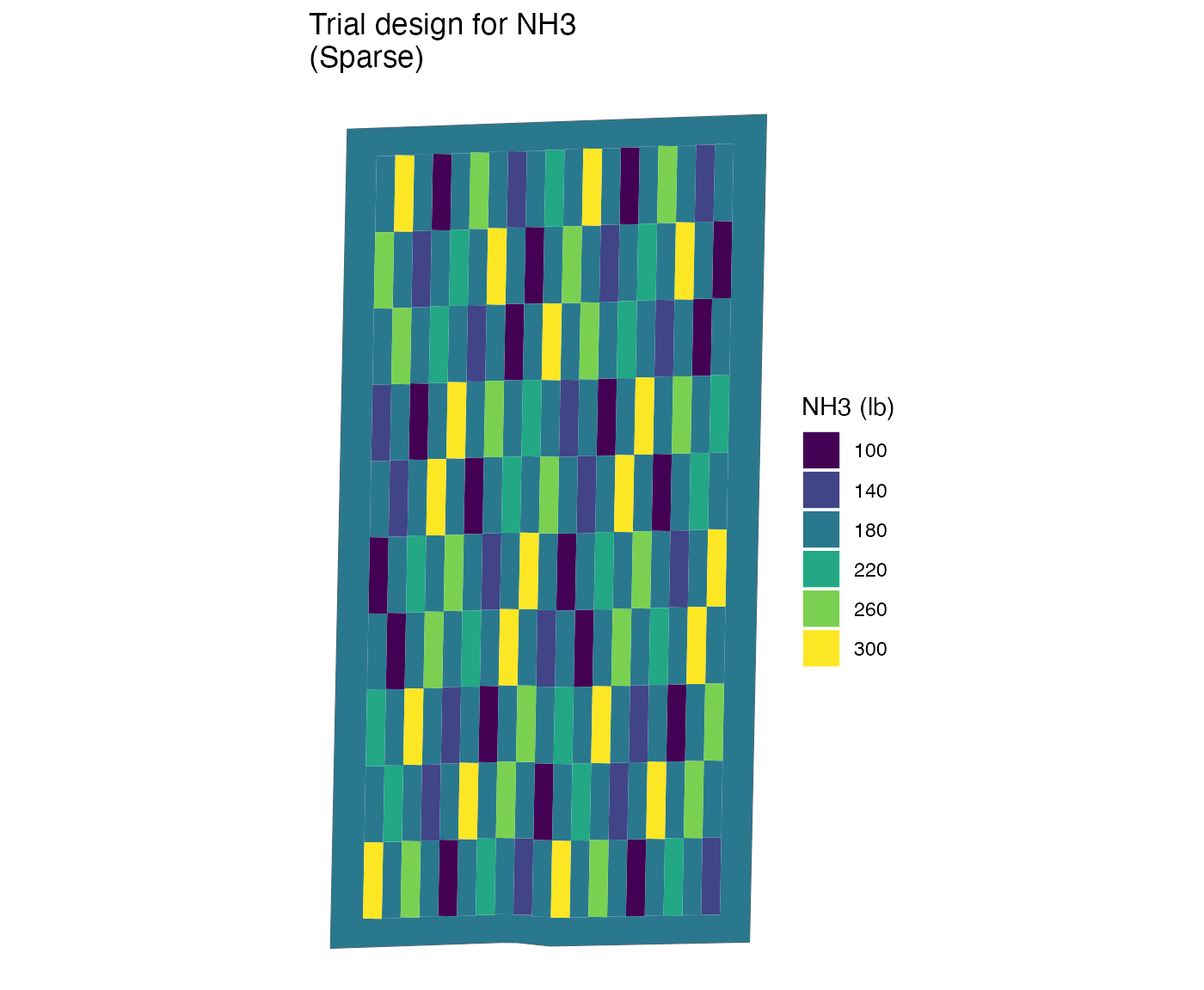
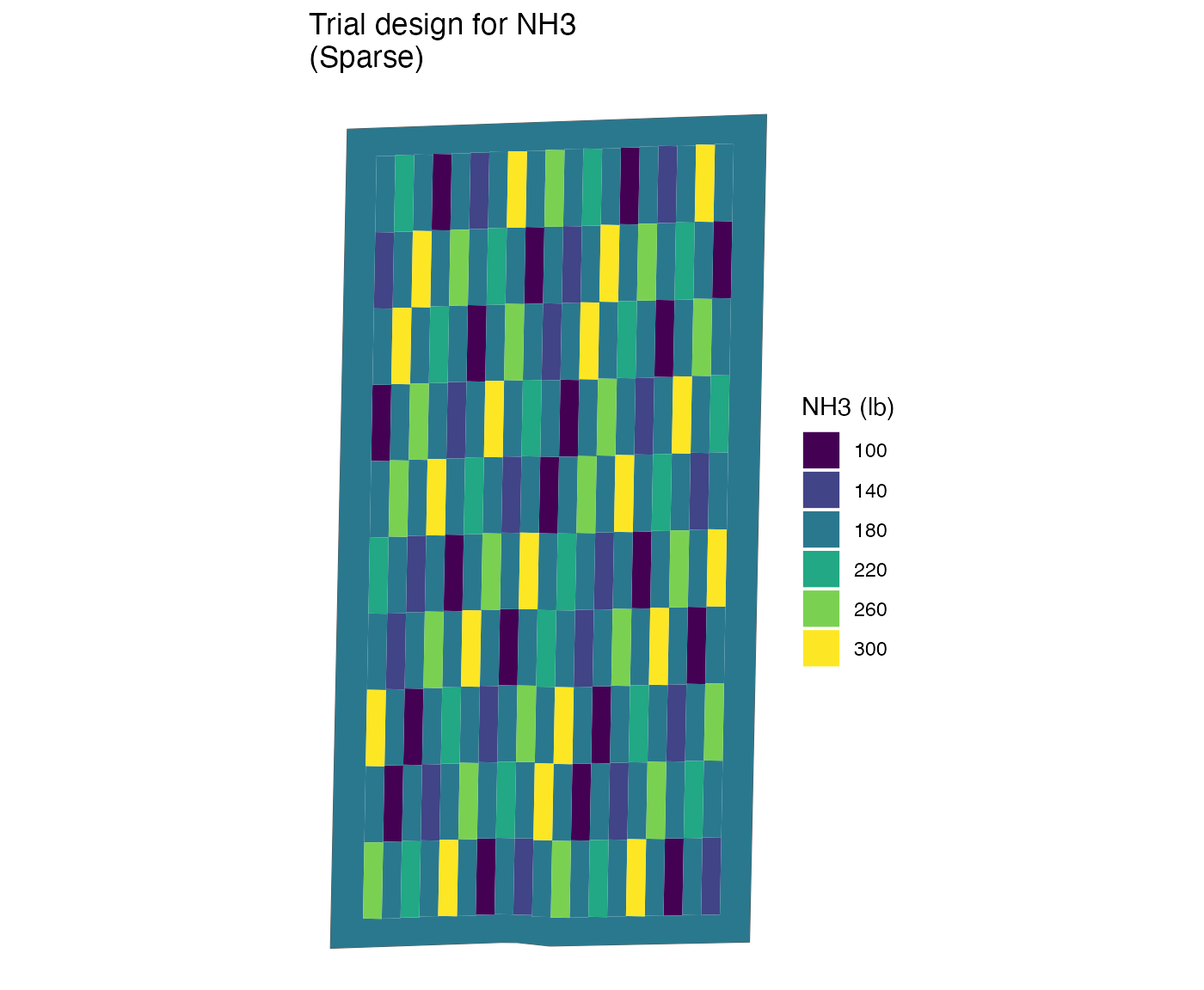
vignette title problem fixed

Changed region(s): [[0.2764, 0.125, 0.6143, 0.9375]]

diff --git a/docs/index.html b/docs/index.html
@@ -97,7 +97,7 @@
 <div class="page-header"><h1 id="ofpetrial-design-on-farm-precision-experiments">ofpetrial: Design On-farm Precision Experiments<a class="anchor" aria-label="anchor" href="#ofpetrial-design-on-farm-precision-experiments"></a>
 </h1></div>
 <!-- badges: start -->
-<!-- badges: end -->
+
 <p>The <code>ofpetrial</code> package allows the user to design agronomic input experiments in a reproducible manner without using ArcGIS or QGIS.</p>
 <div class="section level2">
 <h2 id="installation">Installation<a class="anchor" aria-label="anchor" href="#installation"></a>
@@ -128,13 +128,11 @@
 <span></span>
 <span><span class="va">seed_plot_info</span></span>
 <span><span class="co">#&gt; # A tibble: 1 × 10</span></span>
-<span><span class="co">#&gt;   input…¹ machi…² secti…³ secti…⁴ harve…⁵ plot_…⁶ headl…⁷ side_…⁸ min_p…⁹</span></span>
-<span><span class="co">#&gt;   &lt;chr&gt;     &lt;dbl&gt;   &lt;dbl&gt;   &lt;dbl&gt;   &lt;dbl&gt;   &lt;dbl&gt;   &lt;dbl&gt;   &lt;dbl&gt;   &lt;dbl&gt;</span></span>
-<span><span class="co">#&gt; 1 seed       18.3      24   0.762    9.14    9.14    36.6    9.14    73.2</span></span>
-<span><span class="co">#&gt; # … with 1 more variable: max_plot_length &lt;dbl&gt;, and abbreviated</span></span>
-<span><span class="co">#&gt; #   variable names ¹input_name, ²machine_width, ³section_num,</span></span>
-<span><span class="co">#&gt; #   ⁴section_width, ⁵harvester_width, ⁶plot_width, ⁷headland_length,</span></span>
-<span><span class="co">#&gt; #   ⁸side_length, ⁹min_plot_length</span></span>
+<span><span class="co">#&gt;   input_name machine_width section_num sectio…¹ harve…² plot_…³ headl…⁴ side_…⁵ min_p…⁶ max_p…⁷</span></span>
+<span><span class="co">#&gt;   &lt;chr&gt;              &lt;dbl&gt;       &lt;dbl&gt;    &lt;dbl&gt;   &lt;dbl&gt;   &lt;dbl&gt;   &lt;dbl&gt;   &lt;dbl&gt;   &lt;dbl&gt;   &lt;dbl&gt;</span></span>
+<span><span class="co">#&gt; 1 seed                18.3          24    0.762    9.14    9.14    36.6    9.14    73.2    91.4</span></span>
+<span><span class="co">#&gt; # … with abbreviated variable names ¹section_width, ²harvester_width, ³plot_width,</span></span>
+<span><span class="co">#&gt; #   ⁴headland_length, ⁵side_length, ⁶min_plot_length, ⁷max_plot_length</span></span>
 <span></span>
 <span><span class="va">n_plot_info</span> <span class="op">&lt;-</span></span>
 <span>  <span class="fu"><a href="reference/prep_plot_f.html">prep_plot_f</a></span><span class="op">(</span></span>
@@ -148,13 +146,11 @@
 <span></span>
 <span><span class="va">n_plot_info</span></span>
 <span><span class="co">#&gt; # A tibble: 1 × 10</span></span>
-<span><span class="co">#&gt;   input…¹ machi…² secti…³ secti…⁴ harve…⁵ plot_…⁶ headl…⁷ side_…⁸ min_p…⁹</span></span>
-<span><span class="co">#&gt;   &lt;chr&gt;     &lt;dbl&gt;   &lt;dbl&gt;   &lt;dbl&gt;   &lt;dbl&gt;   &lt;dbl&gt;   &lt;dbl&gt;   &lt;dbl&gt;   &lt;dbl&gt;</span></span>
-<span><span class="co">#&gt; 1 NH3        9.14       1    9.14    9.14    9.14    18.3    9.14    73.2</span></span>
-<span><span class="co">#&gt; # … with 1 more variable: max_plot_length &lt;dbl&gt;, and abbreviated</span></span>
-<span><span class="co">#&gt; #   variable names ¹input_name, ²machine_width, ³section_num,</span></span>
-<span><span class="co">#&gt; #   ⁴section_width, ⁵harvester_width, ⁶plot_width, ⁷headland_length,</span></span>
-<span><span class="co">#&gt; #   ⁸side_length, ⁹min_plot_length</span></span></code></pre></div>
+<span><span class="co">#&gt;   input_name machine_width section_num sectio…¹ harve…² plot_…³ headl…⁴ side_…⁵ min_p…⁶ max_p…⁷</span></span>
+<span><span class="co">#&gt;   &lt;chr&gt;              &lt;dbl&gt;       &lt;dbl&gt;    &lt;dbl&gt;   &lt;dbl&gt;   &lt;dbl&gt;   &lt;dbl&gt;   &lt;dbl&gt;   &lt;dbl&gt;   &lt;dbl&gt;</span></span>
+<span><span class="co">#&gt; 1 NH3                 9.14           1     9.14    9.14    9.14    18.3    9.14    73.2    91.4</span></span>
+<span><span class="co">#&gt; # … with abbreviated variable names ¹section_width, ²harvester_width, ³plot_width,</span></span>
+<span><span class="co">#&gt; #   ⁴headland_length, ⁵side_length, ⁶min_plot_length, ⁷max_plot_length</span></span></code></pre></div>
 <p>Now that plot and machine specifications for the inputs are ready, we can create experiment plots based on them using <code><a href="reference/make_exp_plots.html">make_exp_plots()</a></code>.</p>
 <div class="sourceCode" id="cb3"><pre class="downlit sourceCode r">
 <code class="sourceCode R"><span><span class="va">input_plot_info</span> <span class="op">&lt;-</span> <span class="fu"><a href="https://rdrr.io/r/base/list.html" class="external-link">list</a></span><span class="op">(</span><span class="va">seed_plot_info</span>, <span class="va">n_plot_info</span><span class="op">)</span></span>
@@ -234,13 +230,13 @@
 <div class="section level3">
 <h3 id="assign-rates">Assign rates<a class="anchor" aria-label="anchor" href="#assign-rates"></a>
 </h3>
-<p>Let’s now assign input rates to the experimental plots we just created. Before doing so, we need to prepare rate information for both inputs using <code>prep_rates_s()</code>.</p>
+<p>Let’s now assign input rates to the experimental plots we just created. Before doing so, we need to prepare rate information for both inputs using <code>prep_rates()</code>.</p>
 <div class="sourceCode" id="cb7"><pre class="downlit sourceCode r">
 <code class="sourceCode R"><span><span class="co">#!===========================================================</span></span>
 <span><span class="co"># ! Assign rates</span></span>
 <span><span class="co"># !===========================================================</span></span>
 <span><span class="va">seed_rate_info</span> <span class="op">&lt;-</span></span>
-<span>  <span class="fu">prep_rates_s</span><span class="op">(</span></span>
+<span>  <span class="fu"><a href="reference/prep_rate.html">prep_rate</a></span><span class="op">(</span></span>
 <span>    plot_info <span class="op">=</span> <span class="va">seed_plot_info</span>,</span>
 <span>    gc_rate <span class="op">=</span> <span class="fl">32000</span>,</span>
 <span>    unit <span class="op">=</span> <span class="st">"seed"</span>,</span>
@@ -249,19 +245,17 @@
 <span>    num_rates <span class="op">=</span> <span class="fl">5</span>,</span>
 <span>    design_type <span class="op">=</span> <span class="st">"jcls"</span></span>
 <span>  <span class="op">)</span></span>
-<span><span class="co">#&gt; Trial rates were not directly specified, so the trial rates were calculated using min_rate, max_rate, gc_rate, and num_rates</span></span>
+<span><span class="co">#&gt; Trial rates were not directly specified via the {rates} option, so the trial rates will be calculated using min_rate, max_rate, gc_rate, and num_rates</span></span>
 <span></span>
 <span><span class="va">seed_rate_info</span></span>
-<span><span class="co">#&gt; # A tibble: 1 × 12</span></span>
-<span><span class="co">#&gt;   input_n…¹ desig…² gc_rate unit  rates…³ rank_…⁴ rank_…⁵ plot_i…⁶ rates </span></span>
-<span><span class="co">#&gt;   &lt;chr&gt;     &lt;chr&gt;     &lt;dbl&gt; &lt;chr&gt; &lt;list&gt;  &lt;list&gt;  &lt;list&gt;  &lt;list&gt;   &lt;list&gt;</span></span>
-<span><span class="co">#&gt; 1 seed      jcls      32000 seed  &lt;dt&gt;    &lt;NULL&gt;  &lt;NULL&gt;  &lt;tibble&gt; &lt;NULL&gt;</span></span>
-<span><span class="co">#&gt; # … with 3 more variables: min_rate &lt;dbl&gt;, max_rate &lt;dbl&gt;,</span></span>
-<span><span class="co">#&gt; #   num_rates &lt;dbl&gt;, and abbreviated variable names ¹input_name,</span></span>
-<span><span class="co">#&gt; #   ²design_type, ³rates_data, ⁴rank_seq_ws, ⁵rank_seq_as, ⁶plot_info</span></span>
+<span><span class="co">#&gt; # A tibble: 1 × 10</span></span>
+<span><span class="co">#&gt;   input_name design_type gc_rate unit  rates  min_rate max_rate num_rates rank_seq_ws rank_se…¹</span></span>
+<span><span class="co">#&gt;   &lt;chr&gt;      &lt;chr&gt;         &lt;dbl&gt; &lt;chr&gt; &lt;list&gt;    &lt;dbl&gt;    &lt;dbl&gt;     &lt;dbl&gt; &lt;list&gt;      &lt;list&gt;   </span></span>
+<span><span class="co">#&gt; 1 seed       jcls          32000 seed  &lt;NULL&gt;    16000    40000         5 &lt;NULL&gt;      &lt;NULL&gt;   </span></span>
+<span><span class="co">#&gt; # … with abbreviated variable name ¹rank_seq_as</span></span>
 <span></span>
 <span><span class="va">n_rate_info</span> <span class="op">&lt;-</span></span>
-<span>  <span class="fu">prep_rates_s</span><span class="op">(</span></span>
+<span>  <span class="fu"><a href="reference/prep_rate.html">prep_rate</a></span><span class="op">(</span></span>
 <span>    plot_info <span class="op">=</span> <span class="va">n_plot_info</span>,</span>
 <span>    gc_rate <span class="op">=</span> <span class="fl">180</span>,</span>
 <span>    unit <span class="op">=</span> <span class="st">"lb"</span>,</span>
@@ -271,13 +265,11 @@
 <span>  <span class="op">)</span></span>
 <span></span>
 <span><span class="va">n_rate_info</span></span>
-<span><span class="co">#&gt; # A tibble: 1 × 12</span></span>
-<span><span class="co">#&gt;   input_name desig…¹ gc_rate unit  rates…² rank_…³ rank_…⁴ plot_i…⁵ rates</span></span>
-<span><span class="co">#&gt;   &lt;chr&gt;      &lt;chr&gt;     &lt;dbl&gt; &lt;chr&gt; &lt;list&gt;  &lt;list&gt;  &lt;list&gt;  &lt;list&gt;   &lt;lis&gt;</span></span>
-<span><span class="co">#&gt; 1 NH3        ls          180 lb    &lt;dt&gt;    &lt;dbl&gt;   &lt;NULL&gt;  &lt;tibble&gt; &lt;dbl&gt;</span></span>
-<span><span class="co">#&gt; # … with 3 more variables: min_rate &lt;lgl&gt;, max_rate &lt;lgl&gt;,</span></span>
-<span><span class="co">#&gt; #   num_rates &lt;dbl&gt;, and abbreviated variable names ¹design_type,</span></span>
-<span><span class="co">#&gt; #   ²rates_data, ³rank_seq_ws, ⁴rank_seq_as, ⁵plot_info</span></span></code></pre></div>
+<span><span class="co">#&gt; # A tibble: 1 × 10</span></span>
+<span><span class="co">#&gt;   input_name design_type gc_rate unit  rates     min_rate max_rate num_rates rank_seq…¹ rank_…²</span></span>
+<span><span class="co">#&gt;   &lt;chr&gt;      &lt;chr&gt;         &lt;dbl&gt; &lt;chr&gt; &lt;list&gt;    &lt;lgl&gt;    &lt;lgl&gt;        &lt;dbl&gt; &lt;list&gt;     &lt;list&gt; </span></span>
+<span><span class="co">#&gt; 1 NH3        ls              180 lb    &lt;dbl [5]&gt; NA       NA               5 &lt;dbl [5]&gt;  &lt;NULL&gt; </span></span>
+<span><span class="co">#&gt; # … with abbreviated variable names ¹rank_seq_ws, ²rank_seq_as</span></span></code></pre></div>
 <p>We can now use <code><a href="reference/assign_rates.html">assign_rates()</a></code> to assign rates to experiment plots (see <a href="https://difm-brain.github.io/ofpetrial/articles/V1-trial-design-options.html" class="external-link">this vignette</a> for other design options and <a href="https://difm-brain.github.io/ofpetrial/articles/V3-change-rates-manually.html" class="external-link">this vignette</a> for changing rates manually.).</p>
 <div class="sourceCode" id="cb8"><pre class="downlit sourceCode r">
 <code class="sourceCode R"><span><span class="va">trial_design</span> <span class="op">&lt;-</span> <span class="fu"><a href="reference/assign_rates.html">assign_rates</a></span><span class="op">(</span><span class="va">exp_data</span>, rate_info <span class="op">=</span> <span class="fu"><a href="https://rdrr.io/r/base/list.html" class="external-link">list</a></span><span class="op">(</span><span class="va">seed_rate_info</span>, <span class="va">n_rate_info</span><span class="op">)</span><span class="op">)</span></span>
@@ -298,8 +290,8 @@
 <span>  <span class="va">cor_inputs</span> <span class="op">&lt;-</span> <span class="fu"><a href="reference/check_ortho_inputs.html">check_ortho_inputs</a></span><span class="op">(</span><span class="va">trial_design</span><span class="op">)</span></span>
 <span><span class="op">)</span></span>
 <span><span class="co">#&gt; Checking the correlation between the two inputs. This may take some time depending on the number of experiment plots.</span></span>
-<span><span class="co">#&gt; [1] -0.3475009</span></span></code></pre></div>
-<p>The correlation coefficient is -0.35.</p>
+<span><span class="co">#&gt; [1] 0.3405442</span></span></code></pre></div>
+<p>The correlation coefficient is 0.34.</p>
 </div>
 <div class="section level3">
 <h3 id="write-the-trial-design-files-for-implementation">Write the trial design files for implementation<a class="anchor" aria-label="anchor" href="#write-the-trial-design-files-for-implementation"></a>
@@ -344,7 +336,12 @@
 </ul>
 </div>
 
-
+<div class="dev-status">
+<h2 data-toc-skip>Dev status</h2>
+<ul class="list-unstyled">
+<li><a href="https://github.com/DIFM-Brain/ofpetrial/actions/workflows/R-CMD-check.yaml" class="external-link"><img src="https://github.com/DIFM-Brain/ofpetrial/actions/workflows/R-CMD-check.yaml/badge.svg" alt="R-CMD-check"></a></li>
+</ul>
+</div>
 
   </div>
 </div>

diff --git a/docs/articles/V5-understanding-structure.html b/docs/articles/V5-understanding-structure.html
@@ -320,16 +320,16 @@ because we just assigned rates to the experiment plots with
 <span><span class="co">#&gt; Geodetic CRS:  WGS 84</span></span>
 <span><span class="co">#&gt; First 10 features:</span></span>
 <span><span class="co">#&gt;     rate strip_id plot_id       type                       geometry</span></span>
-<span><span class="co">#&gt; 1  26667        1       1 experiment POLYGON ((-16.69997 39.1199...</span></span>
-<span><span class="co">#&gt; 2  40000        1       2 experiment POLYGON ((-16.69997 39.1206...</span></span>
-<span><span class="co">#&gt; 3  32000        1       3 experiment POLYGON ((-16.69997 39.1213...</span></span>
-<span><span class="co">#&gt; 4  21333        1       4 experiment POLYGON ((-16.69997 39.1221...</span></span>
-<span><span class="co">#&gt; 5  16000        1       5 experiment POLYGON ((-16.69997 39.1228...</span></span>
-<span><span class="co">#&gt; 6  26667        1       6 experiment POLYGON ((-16.69997 39.1235...</span></span>
-<span><span class="co">#&gt; 7  40000        1       7 experiment POLYGON ((-16.69997 39.1242...</span></span>
-<span><span class="co">#&gt; 8  32000        1       8 experiment POLYGON ((-16.69997 39.125,...</span></span>
-<span><span class="co">#&gt; 9  21333        1       9 experiment POLYGON ((-16.69997 39.1257...</span></span>
-<span><span class="co">#&gt; 10 40000        2       1 experiment POLYGON ((-16.69927 39.1199...</span></span>
+<span><span class="co">#&gt; 1  40000        1       1 experiment POLYGON ((-16.69997 39.1199...</span></span>
+<span><span class="co">#&gt; 2  32000        1       2 experiment POLYGON ((-16.69997 39.1206...</span></span>
+<span><span class="co">#&gt; 3  21333        1       3 experiment POLYGON ((-16.69997 39.1213...</span></span>
+<span><span class="co">#&gt; 4  16000        1       4 experiment POLYGON ((-16.69997 39.1221...</span></span>
+<span><span class="co">#&gt; 5  26667        1       5 experiment POLYGON ((-16.69997 39.1228...</span></span>
+<span><span class="co">#&gt; 6  40000        1       6 experiment POLYGON ((-16.69997 39.1235...</span></span>
+<span><span class="co">#&gt; 7  32000        1       7 experiment POLYGON ((-16.69997 39.1242...</span></span>
+<span><span class="co">#&gt; 8  21333        1       8 experiment POLYGON ((-16.69997 39.125,...</span></span>
+<span><span class="co">#&gt; 9  16000        1       9 experiment POLYGON ((-16.69997 39.1257...</span></span>
+<span><span class="co">#&gt; 10 16000        2       1 experiment POLYGON ((-16.69927 39.1199...</span></span>
 <span><span class="co">#&gt; </span></span>
 <span><span class="co">#&gt; [[2]]</span></span>
 <span><span class="co">#&gt; Simple feature collection with 244 features and 4 fields</span></span>
@@ -339,16 +339,16 @@ because we just assigned rates to the experiment plots with
 <span><span class="co">#&gt; Geodetic CRS:  WGS 84</span></span>
 <span><span class="co">#&gt; First 10 features:</span></span>
 <span><span class="co">#&gt;    rate strip_id plot_id       type                       geometry</span></span>
-<span><span class="co">#&gt; 1   180        1       1 experiment POLYGON ((-16.70034 39.1199...</span></span>
-<span><span class="co">#&gt; 2   140        1       2 experiment POLYGON ((-16.70034 39.1206...</span></span>
-<span><span class="co">#&gt; 3   100        1       3 experiment POLYGON ((-16.70034 39.1213...</span></span>
-<span><span class="co">#&gt; 4   260        1       4 experiment POLYGON ((-16.70035 39.1220...</span></span>
-<span><span class="co">#&gt; 5   220        1       5 experiment POLYGON ((-16.70035 39.1228...</span></span>
-<span><span class="co">#&gt; 6   180        1       6 experiment POLYGON ((-16.70035 39.1235...</span></span>
-<span><span class="co">#&gt; 7   140        1       7 experiment POLYGON ((-16.70035 39.1242...</span></span>
-<span><span class="co">#&gt; 8   100        1       8 experiment POLYGON ((-16.70035 39.125,...</span></span>
-<span><span class="co">#&gt; 9   260        1       9 experiment POLYGON ((-16.70035 39.1257...</span></span>
-<span><span class="co">#&gt; 10  220        2       1 experiment POLYGON ((-16.70018 39.1199...</span></span></code></pre></div>
+<span><span class="co">#&gt; 1   100        1       1 experiment POLYGON ((-16.70034 39.1199...</span></span>
+<span><span class="co">#&gt; 2   260        1       2 experiment POLYGON ((-16.70034 39.1206...</span></span>
+<span><span class="co">#&gt; 3   220        1       3 experiment POLYGON ((-16.70034 39.1213...</span></span>
+<span><span class="co">#&gt; 4   180        1       4 experiment POLYGON ((-16.70035 39.1220...</span></span>
+<span><span class="co">#&gt; 5   140        1       5 experiment POLYGON ((-16.70035 39.1228...</span></span>
+<span><span class="co">#&gt; 6   100        1       6 experiment POLYGON ((-16.70035 39.1235...</span></span>
+<span><span class="co">#&gt; 7   260        1       7 experiment POLYGON ((-16.70035 39.1242...</span></span>
+<span><span class="co">#&gt; 8   220        1       8 experiment POLYGON ((-16.70035 39.125,...</span></span>
+<span><span class="co">#&gt; 9   180        1       9 experiment POLYGON ((-16.70035 39.1257...</span></span>
+<span><span class="co">#&gt; 10  140        2       1 experiment POLYGON ((-16.70018 39.1199...</span></span></code></pre></div>
 <p>Since the individual trial designs are just <code>sf</code>, you can
 of course wrangle them direclty if you would like to.</p>
 <div class="sourceCode" id="cb9"><pre class="downlit sourceCode r">
@@ -363,16 +363,16 @@ of course wrangle them direclty if you would like to.</p>
 <span><span class="co">#&gt; Geodetic CRS:  WGS 84</span></span>
 <span><span class="co">#&gt; First 10 features:</span></span>
 <span><span class="co">#&gt;     rate strip_id plot_id       type                       geometry</span></span>
-<span><span class="co">#&gt; 1  26667        1       1 experiment POLYGON ((-16.69997 39.1199...</span></span>
-<span><span class="co">#&gt; 2  40000        1       2 experiment POLYGON ((-16.69997 39.1206...</span></span>
-<span><span class="co">#&gt; 3  32000        1       3 experiment POLYGON ((-16.69997 39.1213...</span></span>
-<span><span class="co">#&gt; 4  21333        1       4 experiment POLYGON ((-16.69997 39.1221...</span></span>
-<span><span class="co">#&gt; 5  16000        1       5 experiment POLYGON ((-16.69997 39.1228...</span></span>
-<span><span class="co">#&gt; 6  26667        1       6 experiment POLYGON ((-16.69997 39.1235...</span></span>
-<span><span class="co">#&gt; 7  40000        1       7 experiment POLYGON ((-16.69997 39.1242...</span></span>
-<span><span class="co">#&gt; 8  32000        1       8 experiment POLYGON ((-16.69997 39.125,...</span></span>
-<span><span class="co">#&gt; 9  21333        1       9 experiment POLYGON ((-16.69997 39.1257...</span></span>
-<span><span class="co">#&gt; 10 40000        2       1 experiment POLYGON ((-16.69927 39.1199...</span></span>
+<span><span class="co">#&gt; 1  40000        1       1 experiment POLYGON ((-16.69997 39.1199...</span></span>
+<span><span class="co">#&gt; 2  32000        1       2 experiment POLYGON ((-16.69997 39.1206...</span></span>
+<span><span class="co">#&gt; 3  21333        1       3 experiment POLYGON ((-16.69997 39.1213...</span></span>
+<span><span class="co">#&gt; 4  16000        1       4 experiment POLYGON ((-16.69997 39.1221...</span></span>
+<span><span class="co">#&gt; 5  26667        1       5 experiment POLYGON ((-16.69997 39.1228...</span></span>
+<span><span class="co">#&gt; 6  40000        1       6 experiment POLYGON ((-16.69997 39.1235...</span></span>
+<span><span class="co">#&gt; 7  32000        1       7 experiment POLYGON ((-16.69997 39.1242...</span></span>
+<span><span class="co">#&gt; 8  21333        1       8 experiment POLYGON ((-16.69997 39.125,...</span></span>
+<span><span class="co">#&gt; 9  16000        1       9 experiment POLYGON ((-16.69997 39.1257...</span></span>
+<span><span class="co">#&gt; 10 16000        2       1 experiment POLYGON ((-16.69927 39.1199...</span></span>
 <span></span>
 <span><span class="co">#--- change the rates to all 0 ---#</span></span>
 <span><span class="op">(</span></span>
@@ -416,7 +416,7 @@ have a mixed treatment problem.</p>
 <span><span class="co">#&gt; $ harvest_ab_line  <span style="color: #949494; font-style: italic;">&lt;LINESTRING [m]&gt;</span> LINESTRING (352984.9 433140..., LINESTRING (352984.9 …</span></span>
 <span><span class="co">#&gt; $ overlap_data     <span style="color: #949494; font-style: italic;">&lt;list&gt;</span> [&lt;data.table[40 x 7]&gt;], [&lt;data.table[41 x 7]&gt;]</span></span>
 <span><span class="co">#&gt; $ harvester_path   <span style="color: #949494; font-style: italic;">&lt;list&gt;</span> [&lt;sf[46 x 3]&gt;], [&lt;sf[46 x 3]&gt;]</span></span>
-<span><span class="co">#&gt; $ g_path_alignment <span style="color: #949494; font-style: italic;">&lt;list&gt;</span> [NULL, &lt;environment: 0x113db1230&gt;, &lt;enviro…</span></span>
+<span><span class="co">#&gt; $ g_path_alignment <span style="color: #949494; font-style: italic;">&lt;list&gt;</span> [NULL, &lt;environment: 0x11f306700&gt;, &lt;enviro…</span></span>
 <span><span class="co">#&gt; $ g_overlap        <span style="color: #949494; font-style: italic;">&lt;list&gt;</span> [3.0000000, 4.0000000, 5.0000000, 6.0000000, 7.00000…</span></span></code></pre></div>
 <p>As you can see, its output has four list-columns and there are three
 different types of objects stored in them.</p>

diff --git a/docs/reference/check_ortho_with_chars.html b/docs/reference/check_ortho_with_chars.html
@@ -107,7 +107,7 @@
     <div class="sourceCode"><pre class="sourceCode r"><code><span class="r-in"><span><span class="fu"><a href="https://rdrr.io/r/utils/data.html" class="external-link">data</a></span><span class="op">(</span><span class="va">td_single_input</span><span class="op">)</span></span></span>
 <span class="r-in"><span><span class="va">yield_sf</span> <span class="op">&lt;-</span> <span class="fu">sf</span><span class="fu">::</span><span class="fu"><a href="https://r-spatial.github.io/sf/reference/st_read.html" class="external-link">st_read</a></span><span class="op">(</span><span class="fu"><a href="https://rdrr.io/r/base/system.file.html" class="external-link">system.file</a></span><span class="op">(</span><span class="st">"extdata"</span>, <span class="st">"yield-simple1.shp"</span>, package <span class="op">=</span> <span class="st">"ofpetrial"</span><span class="op">)</span><span class="op">)</span></span></span>
 <span class="r-out co"><span class="r-pr">#&gt;</span> Reading layer `yield-simple1' from data source </span>
-<span class="r-out co"><span class="r-pr">#&gt;</span>   `/private/var/folders/t4/5gnqprbn38nftyxkyk5hdwmd8hnypy/T/Rtmp4GrWoC/temp_libpath1437747e35ec9/ofpetrial/extdata/yield-simple1.shp' </span>
+<span class="r-out co"><span class="r-pr">#&gt;</span>   `/private/var/folders/t4/5gnqprbn38nftyxkyk5hdwmd8hnypy/T/Rtmp4GrWoC/temp_libpath1437770c94588/ofpetrial/extdata/yield-simple1.shp' </span>
 <span class="r-out co"><span class="r-pr">#&gt;</span>   using driver `ESRI Shapefile'</span>
 <span class="r-out co"><span class="r-pr">#&gt;</span> Simple feature collection with 16822 features and 34 fields</span>
 <span class="r-out co"><span class="r-pr">#&gt;</span> Geometry type: POINT</span>
@@ -118,7 +118,7 @@
 <span class="r-in"><span>  <span class="fu">sf</span><span class="fu">::</span><span class="fu"><a href="https://r-spatial.github.io/sf/reference/st_read.html" class="external-link">st_read</a></span><span class="op">(</span><span class="fu"><a href="https://rdrr.io/r/base/system.file.html" class="external-link">system.file</a></span><span class="op">(</span><span class="st">"extdata"</span>, <span class="st">"ssurgo-simple1.shp"</span>, package <span class="op">=</span> <span class="st">"ofpetrial"</span><span class="op">)</span><span class="op">)</span> <span class="op"><a href="pipe.html">%&gt;%</a></span></span></span>
 <span class="r-in"><span>  <span class="fu">dplyr</span><span class="fu">::</span><span class="fu"><a href="https://dplyr.tidyverse.org/reference/mutate.html" class="external-link">mutate</a></span><span class="op">(</span>mukey <span class="op">=</span> <span class="fu"><a href="https://rdrr.io/r/base/factor.html" class="external-link">factor</a></span><span class="op">(</span><span class="va">mukey</span><span class="op">)</span><span class="op">)</span></span></span>
 <span class="r-out co"><span class="r-pr">#&gt;</span> Reading layer `ssurgo-simple1' from data source </span>
-<span class="r-out co"><span class="r-pr">#&gt;</span>   `/private/var/folders/t4/5gnqprbn38nftyxkyk5hdwmd8hnypy/T/Rtmp4GrWoC/temp_libpath1437747e35ec9/ofpetrial/extdata/ssurgo-simple1.shp' </span>
+<span class="r-out co"><span class="r-pr">#&gt;</span>   `/private/var/folders/t4/5gnqprbn38nftyxkyk5hdwmd8hnypy/T/Rtmp4GrWoC/temp_libpath1437770c94588/ofpetrial/extdata/ssurgo-simple1.shp' </span>
 <span class="r-out co"><span class="r-pr">#&gt;</span>   using driver `ESRI Shapefile'</span>
 <span class="r-out co"><span class="r-pr">#&gt;</span> Simple feature collection with 11 features and 9 fields</span>
 <span class="r-out co"><span class="r-pr">#&gt;</span> Geometry type: POLYGON</span>

diff --git a/docs/articles/V4-diagnose-td.html b/docs/articles/V4-diagnose-td.html
@@ -451,7 +451,7 @@ data)</li>
 <div class="sourceCode" id="cb24"><pre class="downlit sourceCode r">
 <code class="sourceCode R"><span><span class="va">yield_sf</span> <span class="op">&lt;-</span> <span class="fu">sf</span><span class="fu">::</span><span class="fu"><a href="https://r-spatial.github.io/sf/reference/st_read.html" class="external-link">st_read</a></span><span class="op">(</span><span class="fu"><a href="https://rdrr.io/r/base/system.file.html" class="external-link">system.file</a></span><span class="op">(</span><span class="st">"extdata"</span>, <span class="st">"yield-simple1.shp"</span>, package <span class="op">=</span> <span class="st">"ofpetrial"</span><span class="op">)</span><span class="op">)</span></span>
 <span><span class="co">#&gt; Reading layer `yield-simple1' from data source </span></span>
-<span><span class="co">#&gt;   `/private/var/folders/t4/5gnqprbn38nftyxkyk5hdwmd8hnypy/T/Rtmp4GrWoC/temp_libpath1437747e35ec9/ofpetrial/extdata/yield-simple1.shp' </span></span>
+<span><span class="co">#&gt;   `/private/var/folders/t4/5gnqprbn38nftyxkyk5hdwmd8hnypy/T/Rtmp4GrWoC/temp_libpath1437770c94588/ofpetrial/extdata/yield-simple1.shp' </span></span>
 <span><span class="co">#&gt;   using driver `ESRI Shapefile'</span></span>
 <span><span class="co">#&gt; Simple feature collection with 16822 features and 34 fields</span></span>
 <span><span class="co">#&gt; Geometry type: POINT</span></span>
@@ -471,7 +471,7 @@ data)</li>
 <span>  <span class="fu">sf</span><span class="fu">::</span><span class="fu"><a href="https://r-spatial.github.io/sf/reference/st_read.html" class="external-link">st_read</a></span><span class="op">(</span><span class="fu"><a href="https://rdrr.io/r/base/system.file.html" class="external-link">system.file</a></span><span class="op">(</span><span class="st">"extdata"</span>, <span class="st">"ssurgo-simple1.shp"</span>, package <span class="op">=</span> <span class="st">"ofpetrial"</span><span class="op">)</span><span class="op">)</span> <span class="op"><a href="../reference/pipe.html">%&gt;%</a></span></span>
 <span>  <span class="fu">dplyr</span><span class="fu">::</span><span class="fu"><a href="https://dplyr.tidyverse.org/reference/mutate.html" class="external-link">mutate</a></span><span class="op">(</span>mukey <span class="op">=</span> <span class="fu"><a href="https://rdrr.io/r/base/factor.html" class="external-link">factor</a></span><span class="op">(</span><span class="va">mukey</span><span class="op">)</span><span class="op">)</span></span>
 <span><span class="co">#&gt; Reading layer `ssurgo-simple1' from data source </span></span>
-<span><span class="co">#&gt;   `/private/var/folders/t4/5gnqprbn38nftyxkyk5hdwmd8hnypy/T/Rtmp4GrWoC/temp_libpath1437747e35ec9/ofpetrial/extdata/ssurgo-simple1.shp' </span></span>
+<span><span class="co">#&gt;   `/private/var/folders/t4/5gnqprbn38nftyxkyk5hdwmd8hnypy/T/Rtmp4GrWoC/temp_libpath1437770c94588/ofpetrial/extdata/ssurgo-simple1.shp' </span></span>
 <span><span class="co">#&gt;   using driver `ESRI Shapefile'</span></span>
 <span><span class="co">#&gt; Simple feature collection with 11 features and 9 fields</span></span>
 <span><span class="co">#&gt; Geometry type: POLYGON</span></span>

diff --git a/docs/articles/V2-ab-line.html b/docs/articles/V2-ab-line.html
@@ -191,7 +191,7 @@ create an AB-line for a new soybean trial with the same equipment.</p>
 <code class="sourceCode R"><span><span class="va">aa</span> <span class="op">&lt;-</span> <span class="fu"><a href="https://rdrr.io/r/base/system.file.html" class="external-link">system.file</a></span><span class="op">(</span><span class="st">"extdata"</span>, <span class="st">"as-applied-simple1.shp"</span>, package <span class="op">=</span> <span class="st">"ofpetrial"</span><span class="op">)</span> <span class="op"><a href="../reference/pipe.html">%&gt;%</a></span></span>
 <span>  <span class="fu">sf</span><span class="fu">::</span><span class="fu"><a href="https://r-spatial.github.io/sf/reference/st_read.html" class="external-link">st_read</a></span><span class="op">(</span><span class="op">)</span></span>
 <span><span class="co">#&gt; Reading layer `as-applied-simple1' from data source </span></span>
-<span><span class="co">#&gt;   `/private/var/folders/t4/5gnqprbn38nftyxkyk5hdwmd8hnypy/T/Rtmp4GrWoC/temp_libpath1437747e35ec9/ofpetrial/extdata/as-applied-simple1.shp' </span></span>
+<span><span class="co">#&gt;   `/private/var/folders/t4/5gnqprbn38nftyxkyk5hdwmd8hnypy/T/Rtmp4GrWoC/temp_libpath1437770c94588/ofpetrial/extdata/as-applied-simple1.shp' </span></span>
 <span><span class="co">#&gt;   using driver `ESRI Shapefile'</span></span>
 <span><span class="co">#&gt; Simple feature collection with 10404 features and 32 fields</span></span>
 <span><span class="co">#&gt; Geometry type: POINT</span></span>
